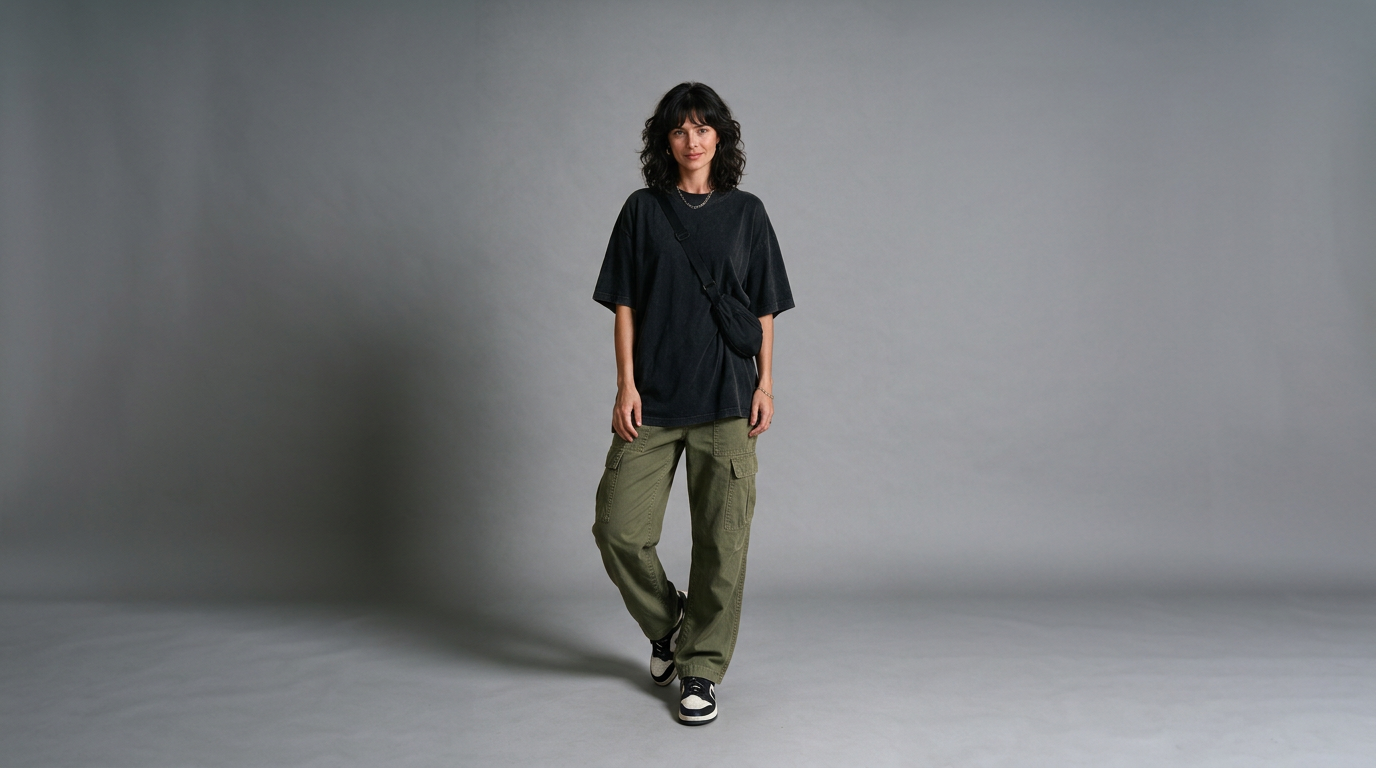
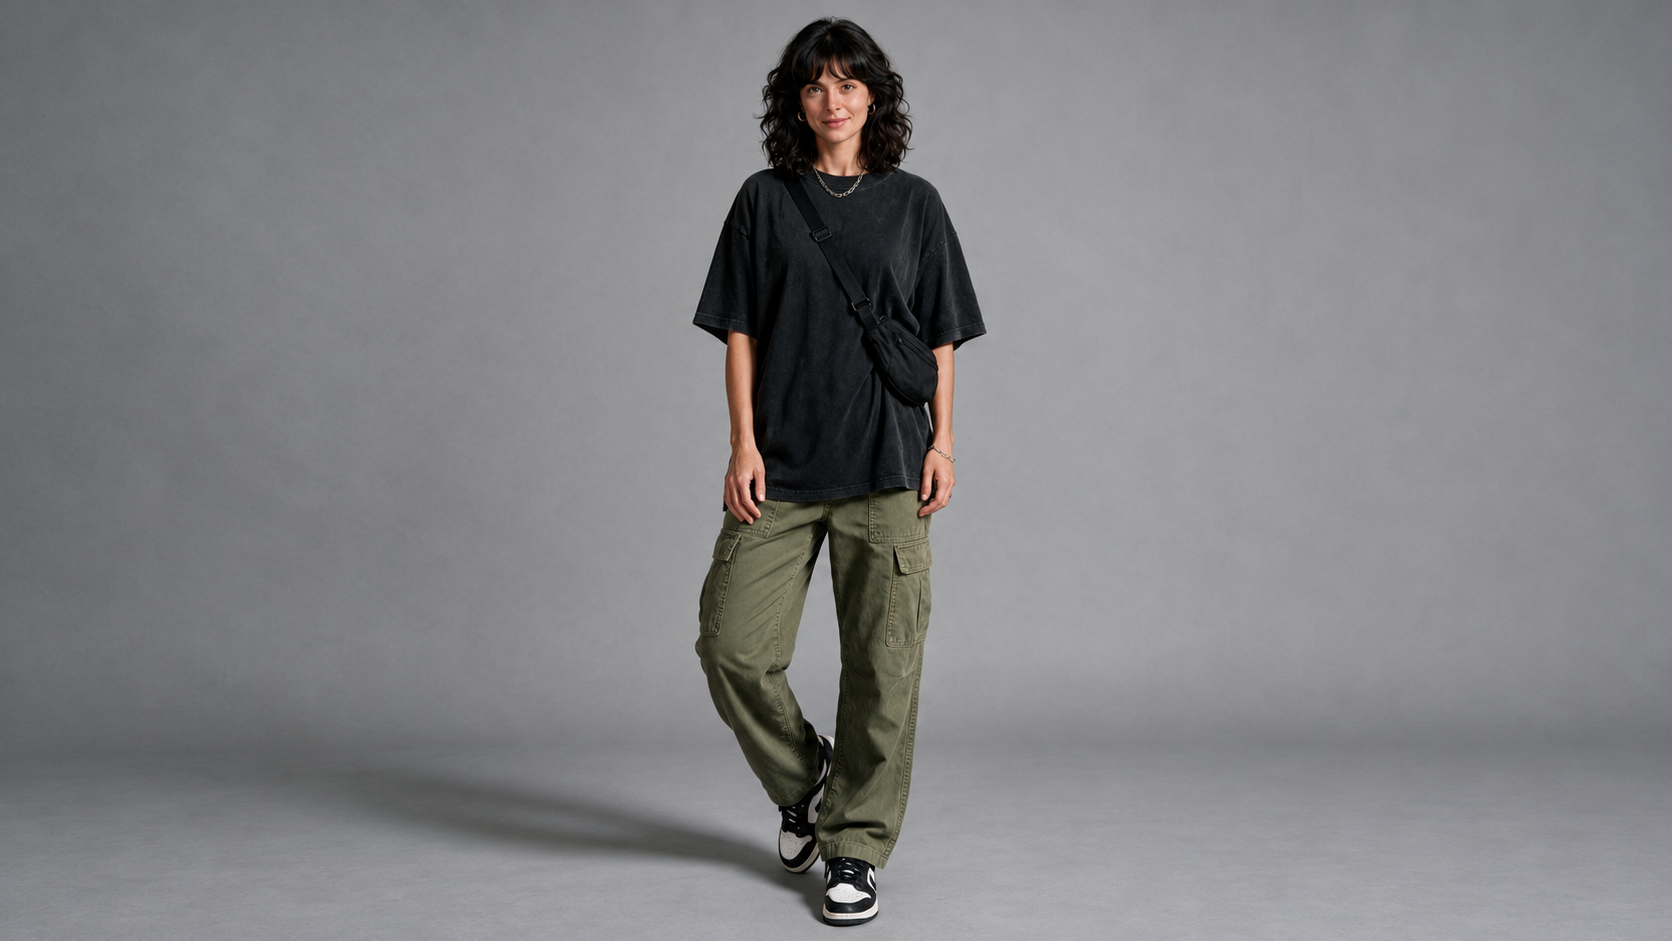
image update
new image update

diff --git a/script.js b/script.js
@@ -1,14 +1,14 @@
 const products = [
   {
     id: "denim",
-    name: "T-shirt & straight-leg denim look",
+    name: "Pearl-Embellished Oversized Jumper — Black",
     price: 65,
     category: "Everyday",
-    colour: "Indigo / white",
-    hex: "#577080",
-    image: "T-shirt & straight-leg denim look.png",
+    colour: "Black / Sand",
+    hex: "#1d1d1d",
+    image: "Black pearl sweater winter fashion portrait.png",
     description:
-      "A white T-shirt paired with straight-leg blue jeans creates an uncomplicated everyday look. White trainers keep the styling casual, while a tan belt and shoulder bag add contrast to the indigo denim.",
+      "Oversized jumper in a soft, brushed knit with cream pearl-style beads scattered across the body and sleeves. Round, rib-trimmed neckline, dropped shoulders and long sleeves. Ribbing at the cuffs and hem. Styled with ivory wide-leg trousers and black ankle boots.",
     // Replace null only with confirmed information for this product.
     specifications: {
       includedItems: null, // e.g. "Coat only" once confirmed
@@ -59,12 +59,12 @@ const products = [
   },
   {
     id: "floral",
-    name: "Square-neck floral midi dress",
+    name: "Oversized High-Neck Jumper",
     price: 59,
     category: "Dresses",
-    colour: "Ivory floral",
-    hex: "#e6e3d5",
-    image: "Square-neck floral midi dress.png",
+    colour: "Olive Green",
+    hex: "#8f8d07",
+    image: "Olive sweater, tailored trousers.png",
     description:
       "An ivory midi dress with a delicate blue floral pattern, a square neckline and shoulder straps. The skirt falls below the knee, styled here with a straw bag and neutral sandals for a light summer look.",
     // Replace null only with confirmed information for this product.
@@ -88,14 +88,14 @@ const products = [
   },
   {
     id: "black-dress",
-    name: "Draped-neck midi dress",
+    name: "Long Tailored Coat",
     price: 79,
     category: "Dresses",
-    colour: "Black",
-    hex: "#232323",
-    image: "Draped-neck midi dress.png",
+    colour: "Camel",
+    hex: "#c49703",
+    image: "Camel layers in soft studio light.png",
     description:
-      "A black midi dress with narrow straps and a softly draped neckline. The fabric has a subtle sheen, creating a simple evening silhouette finished here with a compact black bag and heels.",
+      "Long camel coat with notched lapels, long sleeves and side pockets. An open front reveals an ivory cable-knit roll-neck jumper underneath. Styled with dark indigo jeans and brown Chelsea boots.",
     // Replace null only with confirmed information for this product.
     specifications: {
       includedItems: null, // e.g. "Coat only" once confirmed
@@ -175,14 +175,14 @@ const products = [
   },
   {
     id: "street",
-    name: "Oversized tee & cargo look",
+    name: "Fair Isle Knit Jumper",
     price: 75,
     category: "Everyday",
-    colour: "Black / olive",
+    colour: "Beige, Black & Cream",
     hex: "#747a58",
-    image: "Oversized tee & cargo look.png",
+    image: "Beige Fair Isle Knitwear Look.png",
     description:
-      "An oversized black T-shirt paired with olive cargo trousers for a casual streetwear look. The contrast between the loose top and utility-style trousers is finished with a crossbody bag and dark trainers.",
+      "Relaxed-fit jumper in a brushed knit with geometric patterns across the shoulders, chest and lower sleeves. Round, rib-trimmed neckline, long sleeves and ribbing at the cuffs and hem. Styled with ivory corduroy trousers and tan ankle boots.",
     // Replace null only with confirmed information for this product.
     specifications: {
       includedItems: null, // e.g. "Coat only" once confirmed
@@ -204,14 +204,14 @@ const products = [
   },
   {
     id: "sari",
-    name: "Emerald sari look",
+    name: "Double-Breasted Peacoat",
     price: 119,
     category: "Occasion",
-    colour: "Emerald",
-    hex: "#185840",
-    image: "creation_3775773551",
+    colour: "Charcoal Grey",
+    hex: "#323333",
+    image: "Burgundy Knit Winter Studio Look.png",
     description:
-      "An emerald-green sari with gold-toned border detailing and a coordinated blouse. The draped fabric creates a flowing silhouette, styled with jewellery for an occasion look.",
+      "Short charcoal-grey coat with wide notched lapels, a double-breasted button front and button-tab cuffs. Layered over a burgundy rib-knit roll-neck jumper. Styled with a grey checked midi skirt, opaque black tights and black knee-high boots.",
     // Replace null only with confirmed information for this product.
     specifications: {
       includedItems: null, // e.g. "Coat only" once confirmed
@@ -233,14 +233,14 @@ const products = [
   },
   {
     id: "summer",
-    name: "Shirt & tailored shorts look",
+    name: "Zip-Through Teddy Fleece Jacket",
     price: 79,
     category: "Everyday",
-    colour: "White / sand",
+    colour: "Taupe",
     hex: "#d5c9b4",
-    image: "Shirt & tailored shorts look.png",
+    image: "Taupe teddy jacket studio fashion look.png",
     description:
-      "A white shirt tucked into tailored beige shorts for a simple warm-weather outfit. A brown belt defines the waist, while a woven bag and neutral sandals complement the white and sand palette.",
+      "Relaxed-fit jacket in textured teddy fleece with a high stand collar and tonal front zip. Long sleeves, two large front patch pockets and a straight hem. Styled with black straight-leg jeans and dark brown chunky Chelsea boots.",
     // Replace null only with confirmed information for this product.
     specifications: {
       includedItems: null, // e.g. "Coat only" once confirmed
